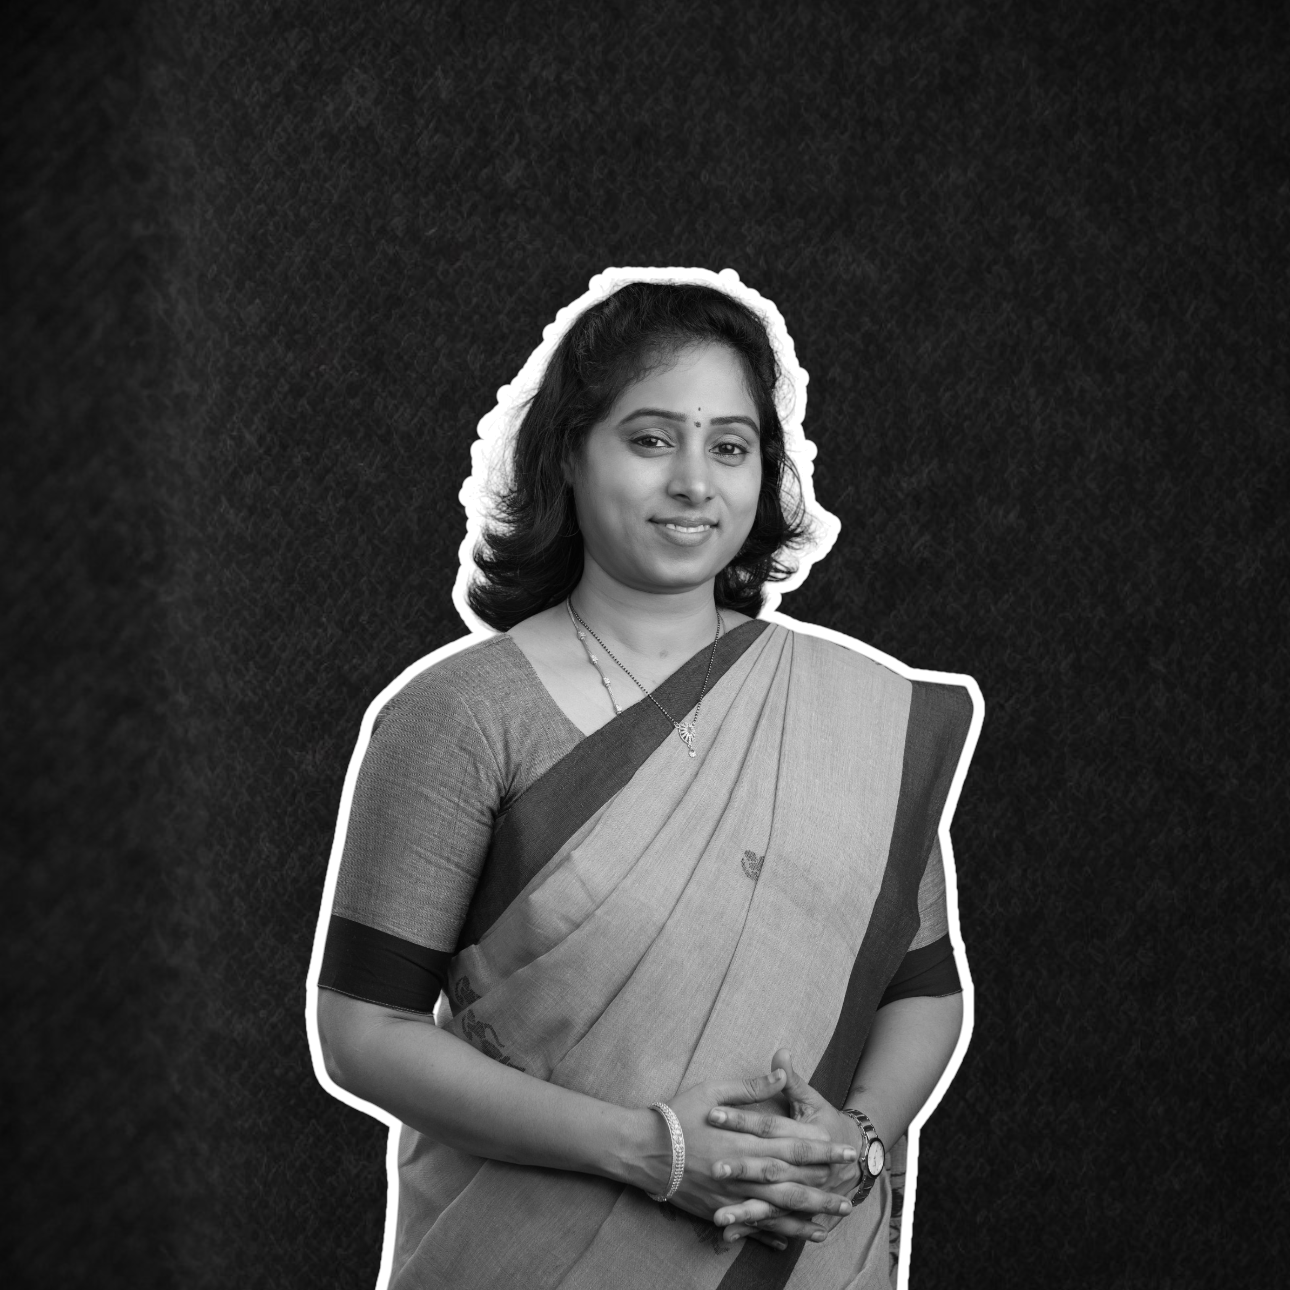
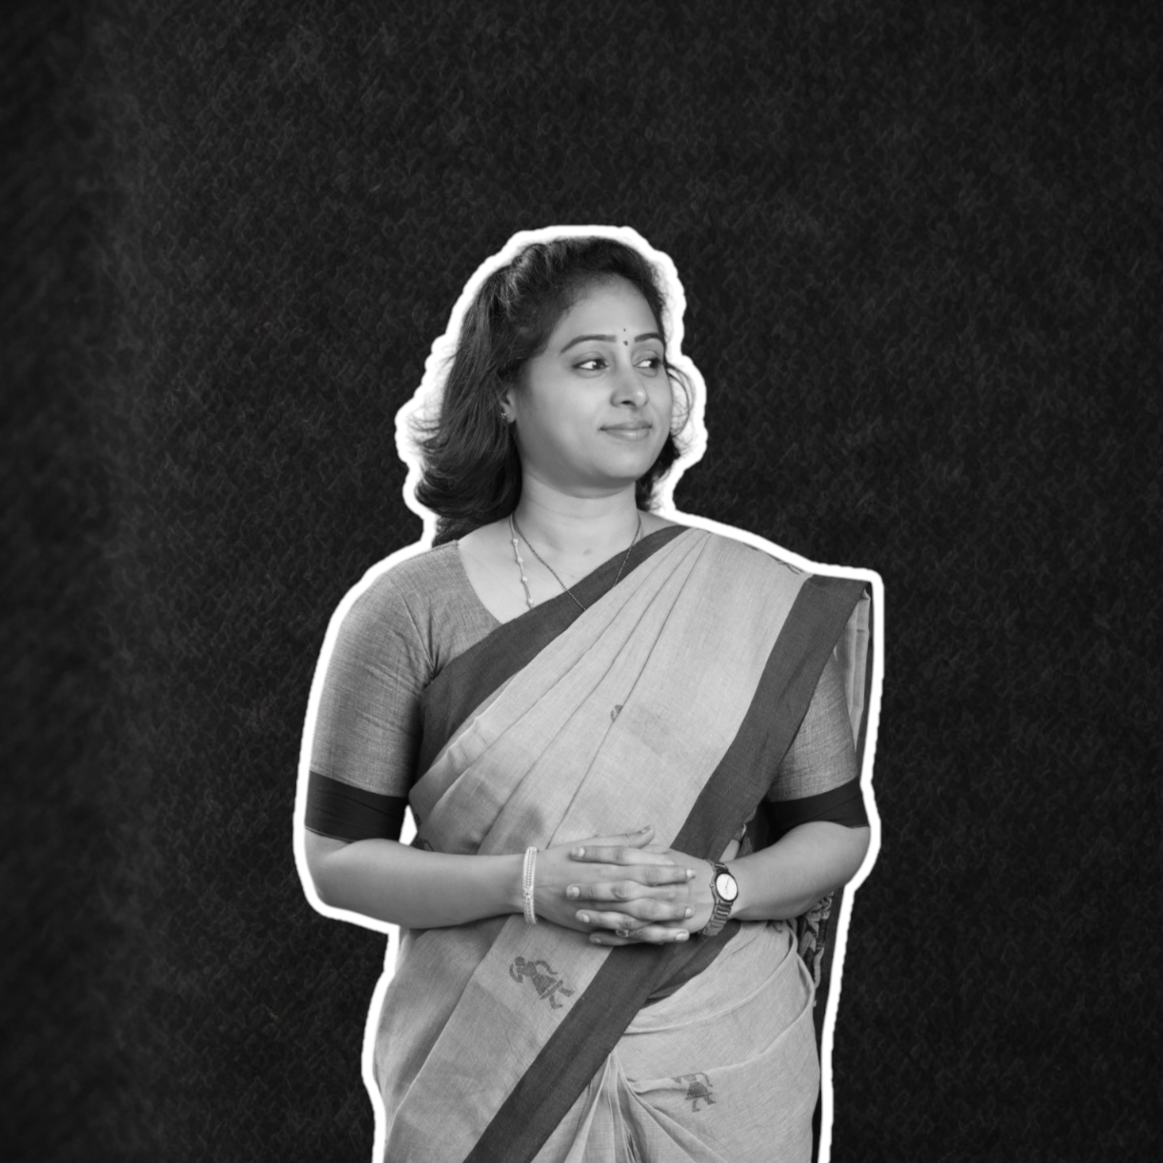
speakers

Changed region(s): [[0.2167, 0.1857, 0.7739, 1.0]]

diff --git a/Tedx/src/components/speakers/SpeakerData.jsx b/Tedx/src/components/speakers/SpeakerData.jsx
@@ -6,6 +6,7 @@ import MokshaKalyanram from '../../assets/images/speakerImage/MokshaKalyanram.pn
 import BijayBairagi from '../../assets/images/speakerImage/BijayBairagi.png';
 import KowshikMaridi from '../../assets/images/speakerImage/KowshikMaridi.png';
 import GallaMadhavi from '../../assets/images/speakerImage/GallaMadhavi.png';
+import Bhaskar from '../../assets/images/speakerImage/Bhaskar.png';
 
 
 export const speakers = [
@@ -13,46 +14,37 @@ export const speakers = [
     name: 'Mr. Ravi Mantri',
     role: 'Author & Content Creator',
     image: RaviMantri,
-    LinkedInLink: '',
-    InstagramLink: '',
-    MailLink: '',
     description: 'Ravi Mantri was born in Andhra Pradesh, South India. He pursued his masters degree from the College of Engineering, JNTU, before moving to Ireland for work. As a techie by profession, Ravi embarked on his literary journey in 2019 with his debut novel, Amma Dairylo Konni Pageelu. The novel became a best-seller and won the hearts of many readers. In addition to novels, Ravi has penned several short stories that have been published in renowned Telugu magazines. An avid social media influencer, he actively creates relatable content for his followers. Ravi is currently working on his second novel.'
   },
   {
     name: 'Dr. Moksha',
     role: 'Advocate',
     image: MokshaKalyanram,
-    LinkedInLink: '',
-    InstagramLink: '',
-    MailLink: '',
     description: 'Dr. Moksha Kalyanram Abhiramula, a seasoned legal expert, with over more than two decades of proficiency in corporate, taxation, civil, and ADR laws. Leading La Mintage Legal LLP, law firm specialized in providing solutions to complex corporate, IBC, Tax and property matters. Recognized as the "Entrepreneur of the Year 2022" and a "Game Changer," his vision extends to revolutionizing global dispute resolution. As the driving force behind La Mintage Dispute Resolution Hub LLP, he leverages modern technology to offer transparent mediation, conciliation, and arbitration services. His exemplary journey reflects a passion for preventing corporate fraud and fostering mutually amicable dialogues, earning him accolades and trust.'
   },
  {
     name: 'Mr. Kowshik Maridi',
     role: 'Finacial Expert',
     image: KowshikMaridi,
-    LinkedInLink: '',
-    InstagramLink: '',
-    MailLink: '',
     description: 'Kowshik Maridi was born in Bhimavaram, Andhra Pradesh. He pursued an MBA in Finance after discontinuing his CA studies and later ventured into financial education. In 2019, he started his YouTube channel to spread financial awareness among Telugu-speaking audiences. Today, his channel is the most-subscribed personal finance channel in South India, with over 5 million subscribers.Beyond YouTube, Kowshik has built a strong presence on social media, becoming the first personal finance creator in South India to achieve 1 million followers on Instagram, now surpassing 1.3 million. He also has a growing community of 550,000 followers on Facebook. His engaging content on personal finance, investments, and cybercrime awareness has made him one of the most influential finance creators in the region. Kowshik has also collaborated with law enforcement and industry experts to educate people on financial security.'
   },
   {
     name: 'Mrs. Galla Madhavi',
     role: 'Director at Vikaas Hospitals & MLA, Guntur West',
     image: GallaMadhavi,
-    LinkedInLink: '',
-    InstagramLink: '',
-    MailLink: '',
     description: 'Galla Madhavi, a dedicated social worker from Mulukuduru village, is committed to public service and community development. With an MCA degree, she initially pursued Civil Services but later found her calling in teaching and philanthropy. She currently serves as the Director of Vikaas Hospitals, striving to provide affordable and quality healthcare. As the co-founder of the Sri Bhramara Trust, she leads initiatives in education, healthcare, and social welfare, focusing on youth empowerment and environmental sustainability. Actively engaged in community service, she organizes free health camps, distributes essential supplies to the needy, and supports employment programs. Through her political campaign, she actively engages with people at the grassroots level, addressing their concerns and working towards their well-being. With her unwavering dedication, she envisions a society where every individual has access to better opportunities and an improved quality of life.'
   },
   {
     name: 'Mr. Bijay Bairagi',
     role: 'Supply Chain Management  Head at  East West Seeds',
     image: BijayBairagi,
-    LinkedInLink: '',
-    InstagramLink: '',
-    MailLink: '',
     description: 'Postgraduate in Agriculture and in General Management; an alumna of IIM Calcutta and ISB Hyderabad, Bijay Bairagi brings in rich academic knowledge. Currently associated with East West Seed International as Head of Supply Chain Management, he brings in three decades of extensive experience in the Sales and Supply Chain functions working with the prestigious MNCs and Indian organizations. A practitioner of yoga and meditation, Bijay holds deep understanding of spiritual practices and wellbeing. He loves to play “Tabla”, listens to Indian Classical music and reads voraciously in his free time.'
+  },
+  {
+    name: 'Dr. JVS Bhaskar',
+    role: 'Founder & CEO, Inspire International Foundation',
+    image: Bhaskar,
+    description: 'Dr. JVS Bhaskar, the visionary Founder and CEO of INSPIRE International Foundation, has established himself as a beacon of hope and inspiration for youth across India. Hailing from a humble village in Andhra Pradesh, his rise to prominence as a motivational speaker and soft skills trainer is a testament to his unshakable commitment to service, leadership, and upliftment of society. Through INSPIRE - Ray of Life, he has impacted thousands of lives, transforming despair into determination and guiding countless youth towards the path of success.Born to Juttada Manikyam and Appalaraju in the village of Indugapalli, East Godavari District, Dr. Bhaskars journey was anything but easy. From a young age, he exhibited exceptional leadership qualities and a strong inclination toward public service. His dedication to education and service was evident as he grew into a role model for his peers. Even during his school days, he earned respect and recognition for his motivational speeches, often being invited to address gatherings of students and educators alike. This early exposure to public speaking and his deep passion for inspiring others set the foundation for his future endeavors.'
   },
   
 ];
